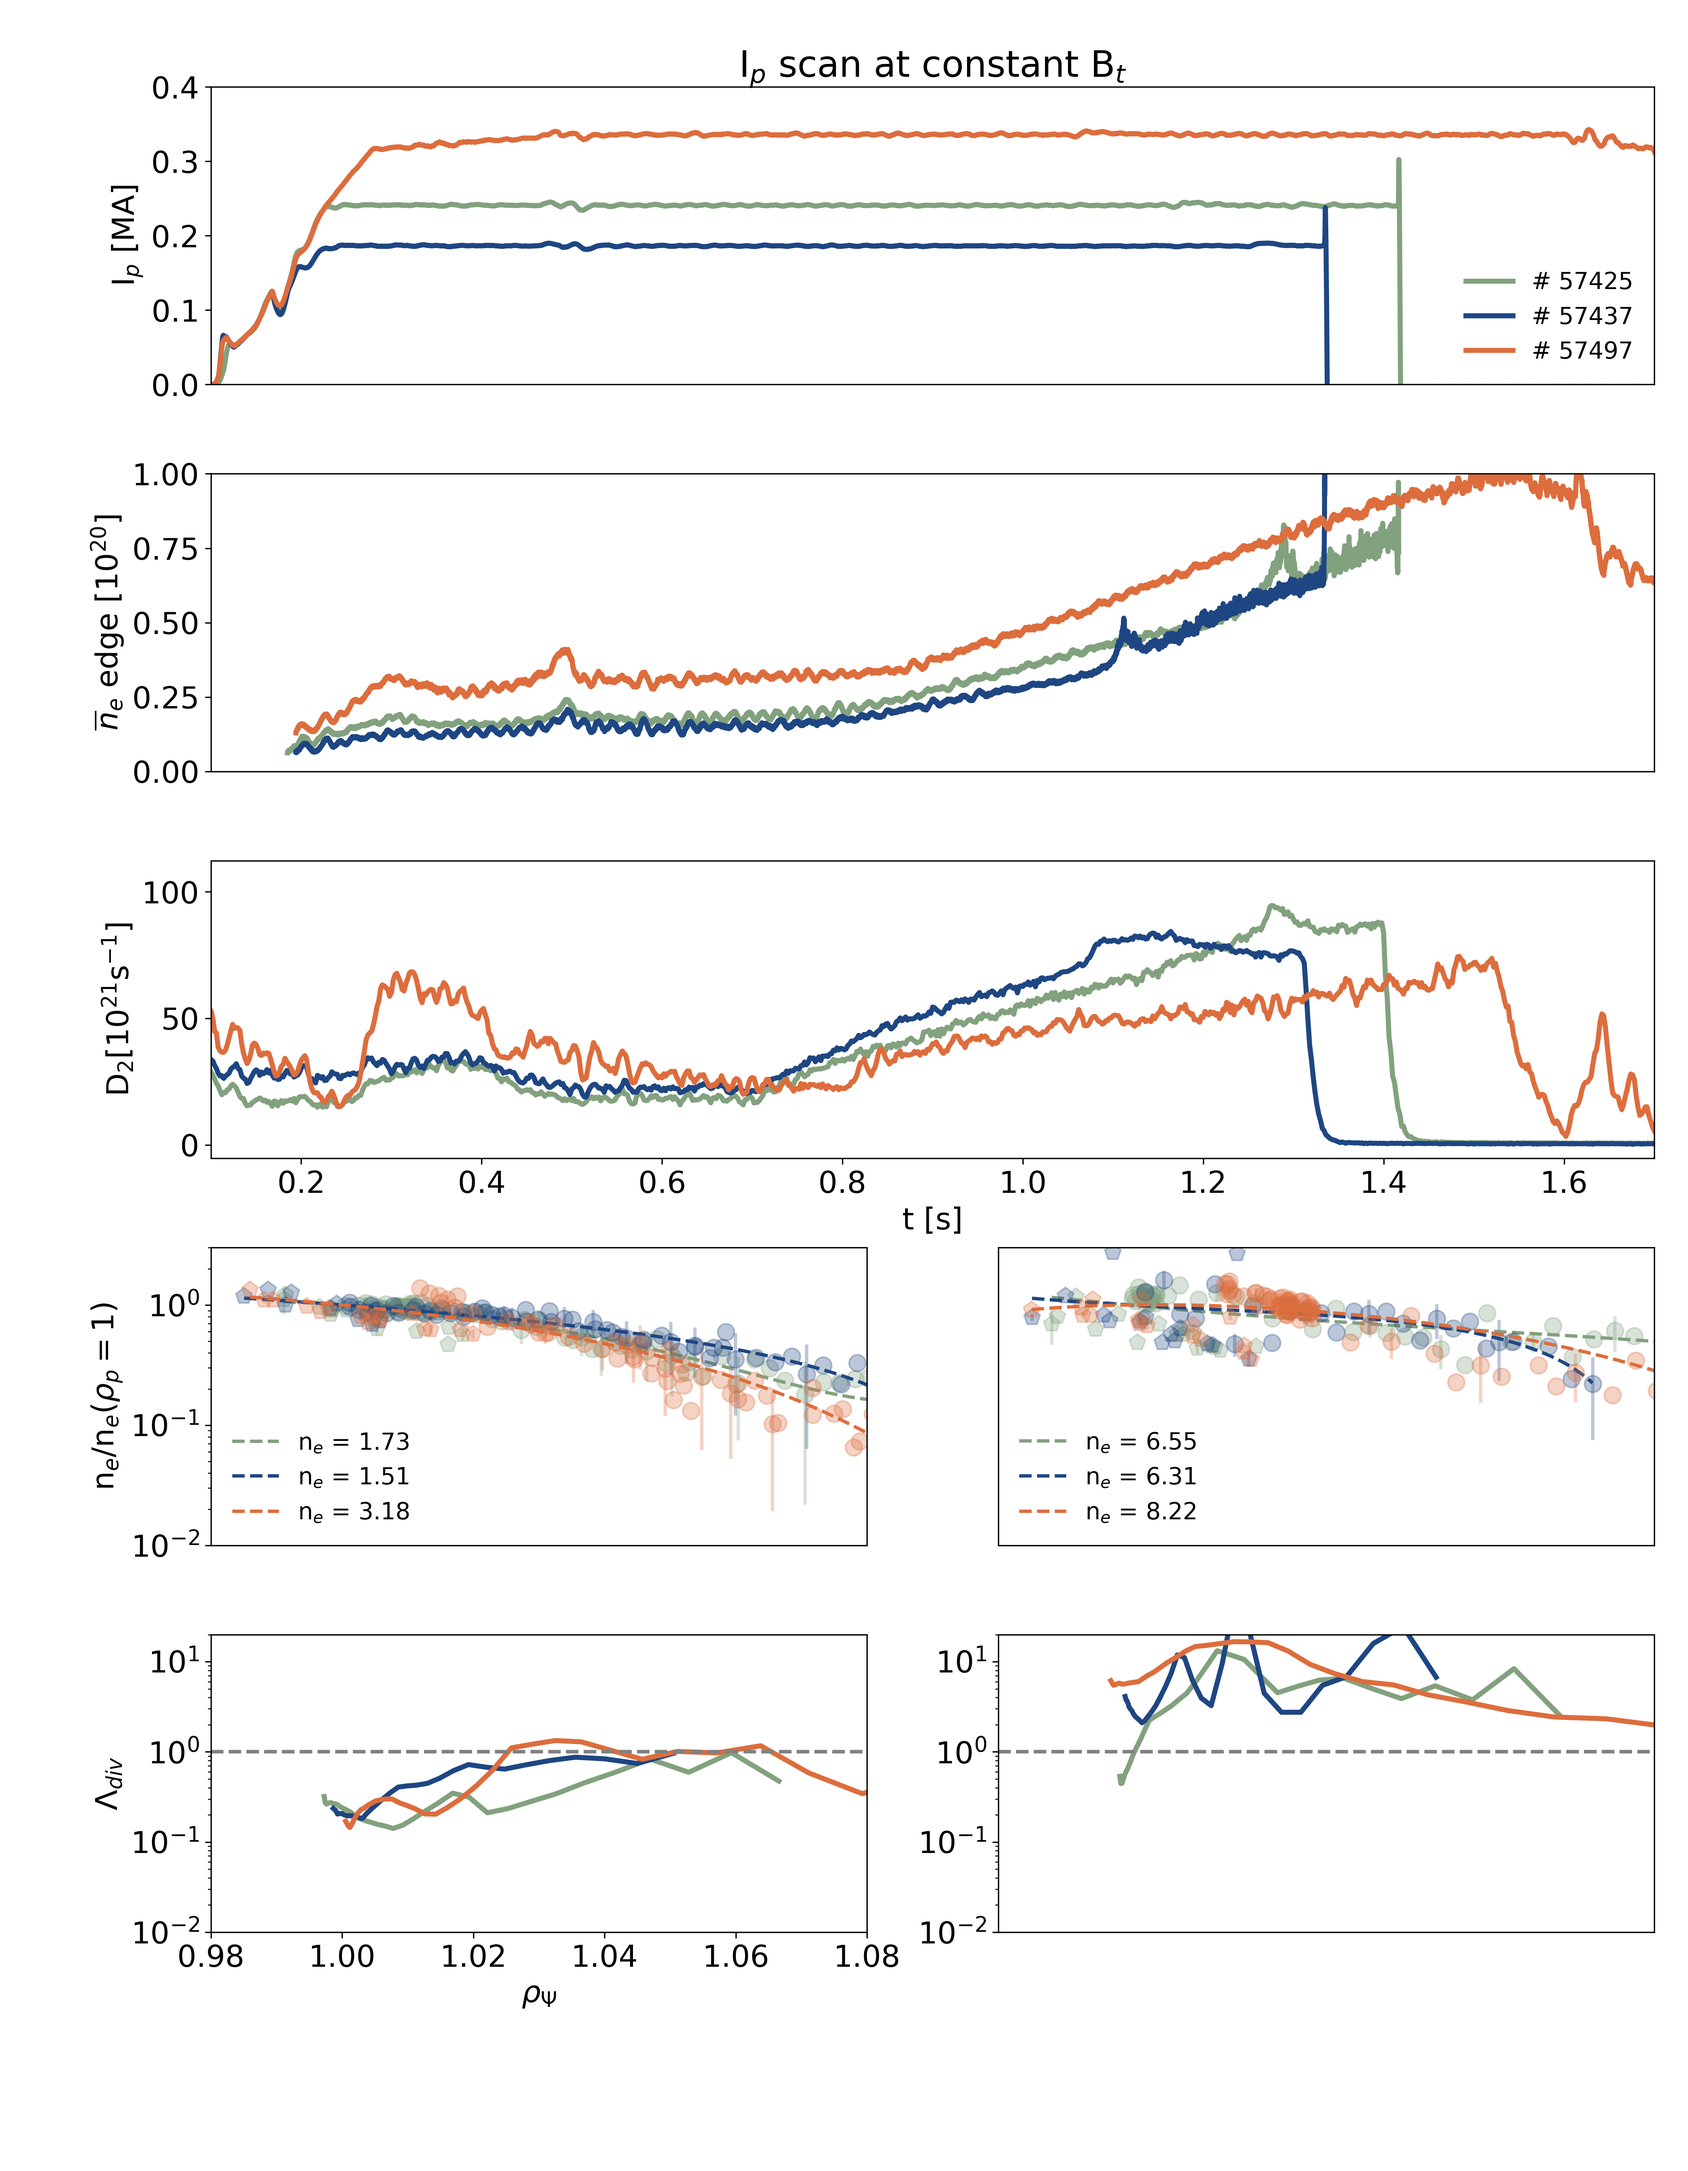
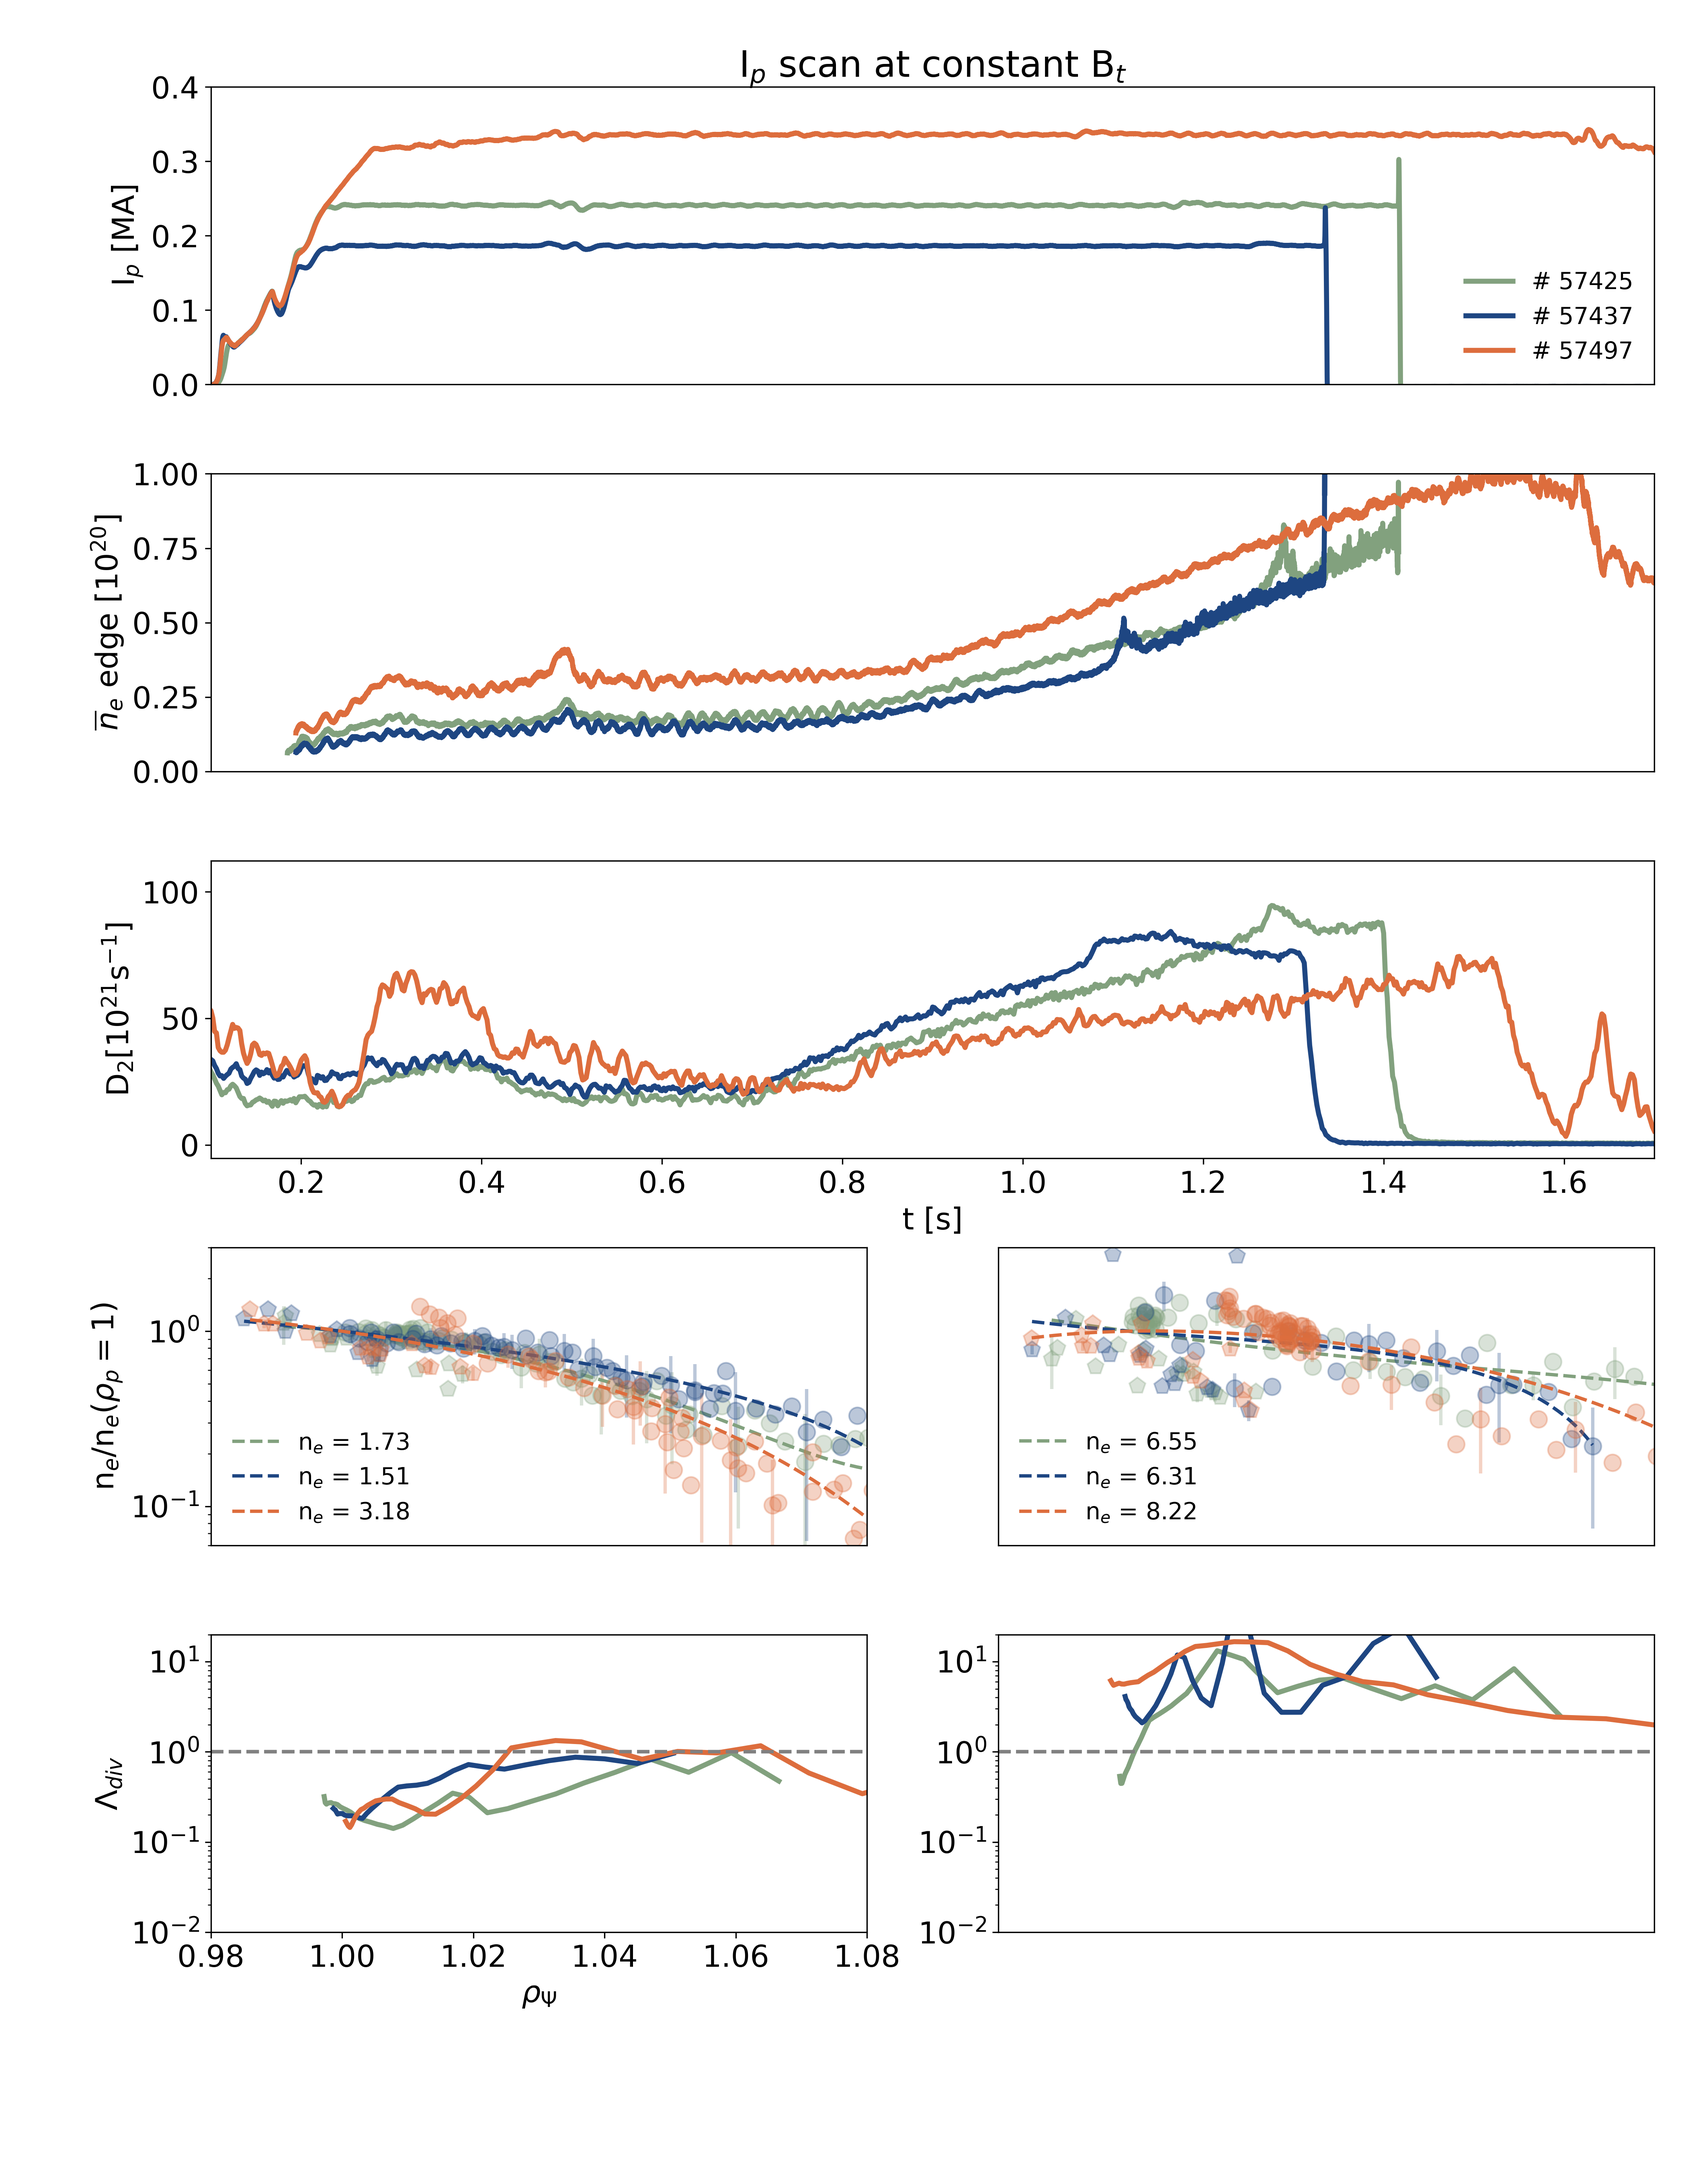
update to IpConstantBt plot

Changed region(s): [[0.0936, 0.5911, 0.5302, 0.7156], [0.5926, 0.5911, 0.9981, 0.6844], [0.0936, 0.6844, 0.1248, 0.7156]]

diff --git a/Experiments/TCV/analysis/python/scriptAnalysis.py b/Experiments/TCV/analysis/python/scriptAnalysis.py
@@ -1055,13 +1055,13 @@ while loop:
                 _ax2.plot(rhoLambda[_idx, :], Lambda[_idx, :],
                           '-', color=col, lw=3)
                 _ax2.axhline(1, ls='--', lw=2, color='grey')
-        ax2.set_ylim([0.01, 3])
+        ax2.set_ylim([0.06, 3])
         ax2.set_yscale('log')
         ax2.set_xlim([0.98, 1.08])
         ax2.legend(loc='best', numpoints=1, frameon=False, fontsize=14)
         ax2.axes.get_xaxis().set_visible(False)
         ax2.set_ylabel(r'n$_e$/n$_e(\rho_p = 1)$')
-        ax3.set_ylim([0.01, 3])
+        ax3.set_ylim([0.06, 3])
         ax3.set_yscale('log')
         ax3.set_xlim([0.98, 1.08])
         ax3.legend(loc='best', numpoints=1, frameon=False, fontsize=14)
